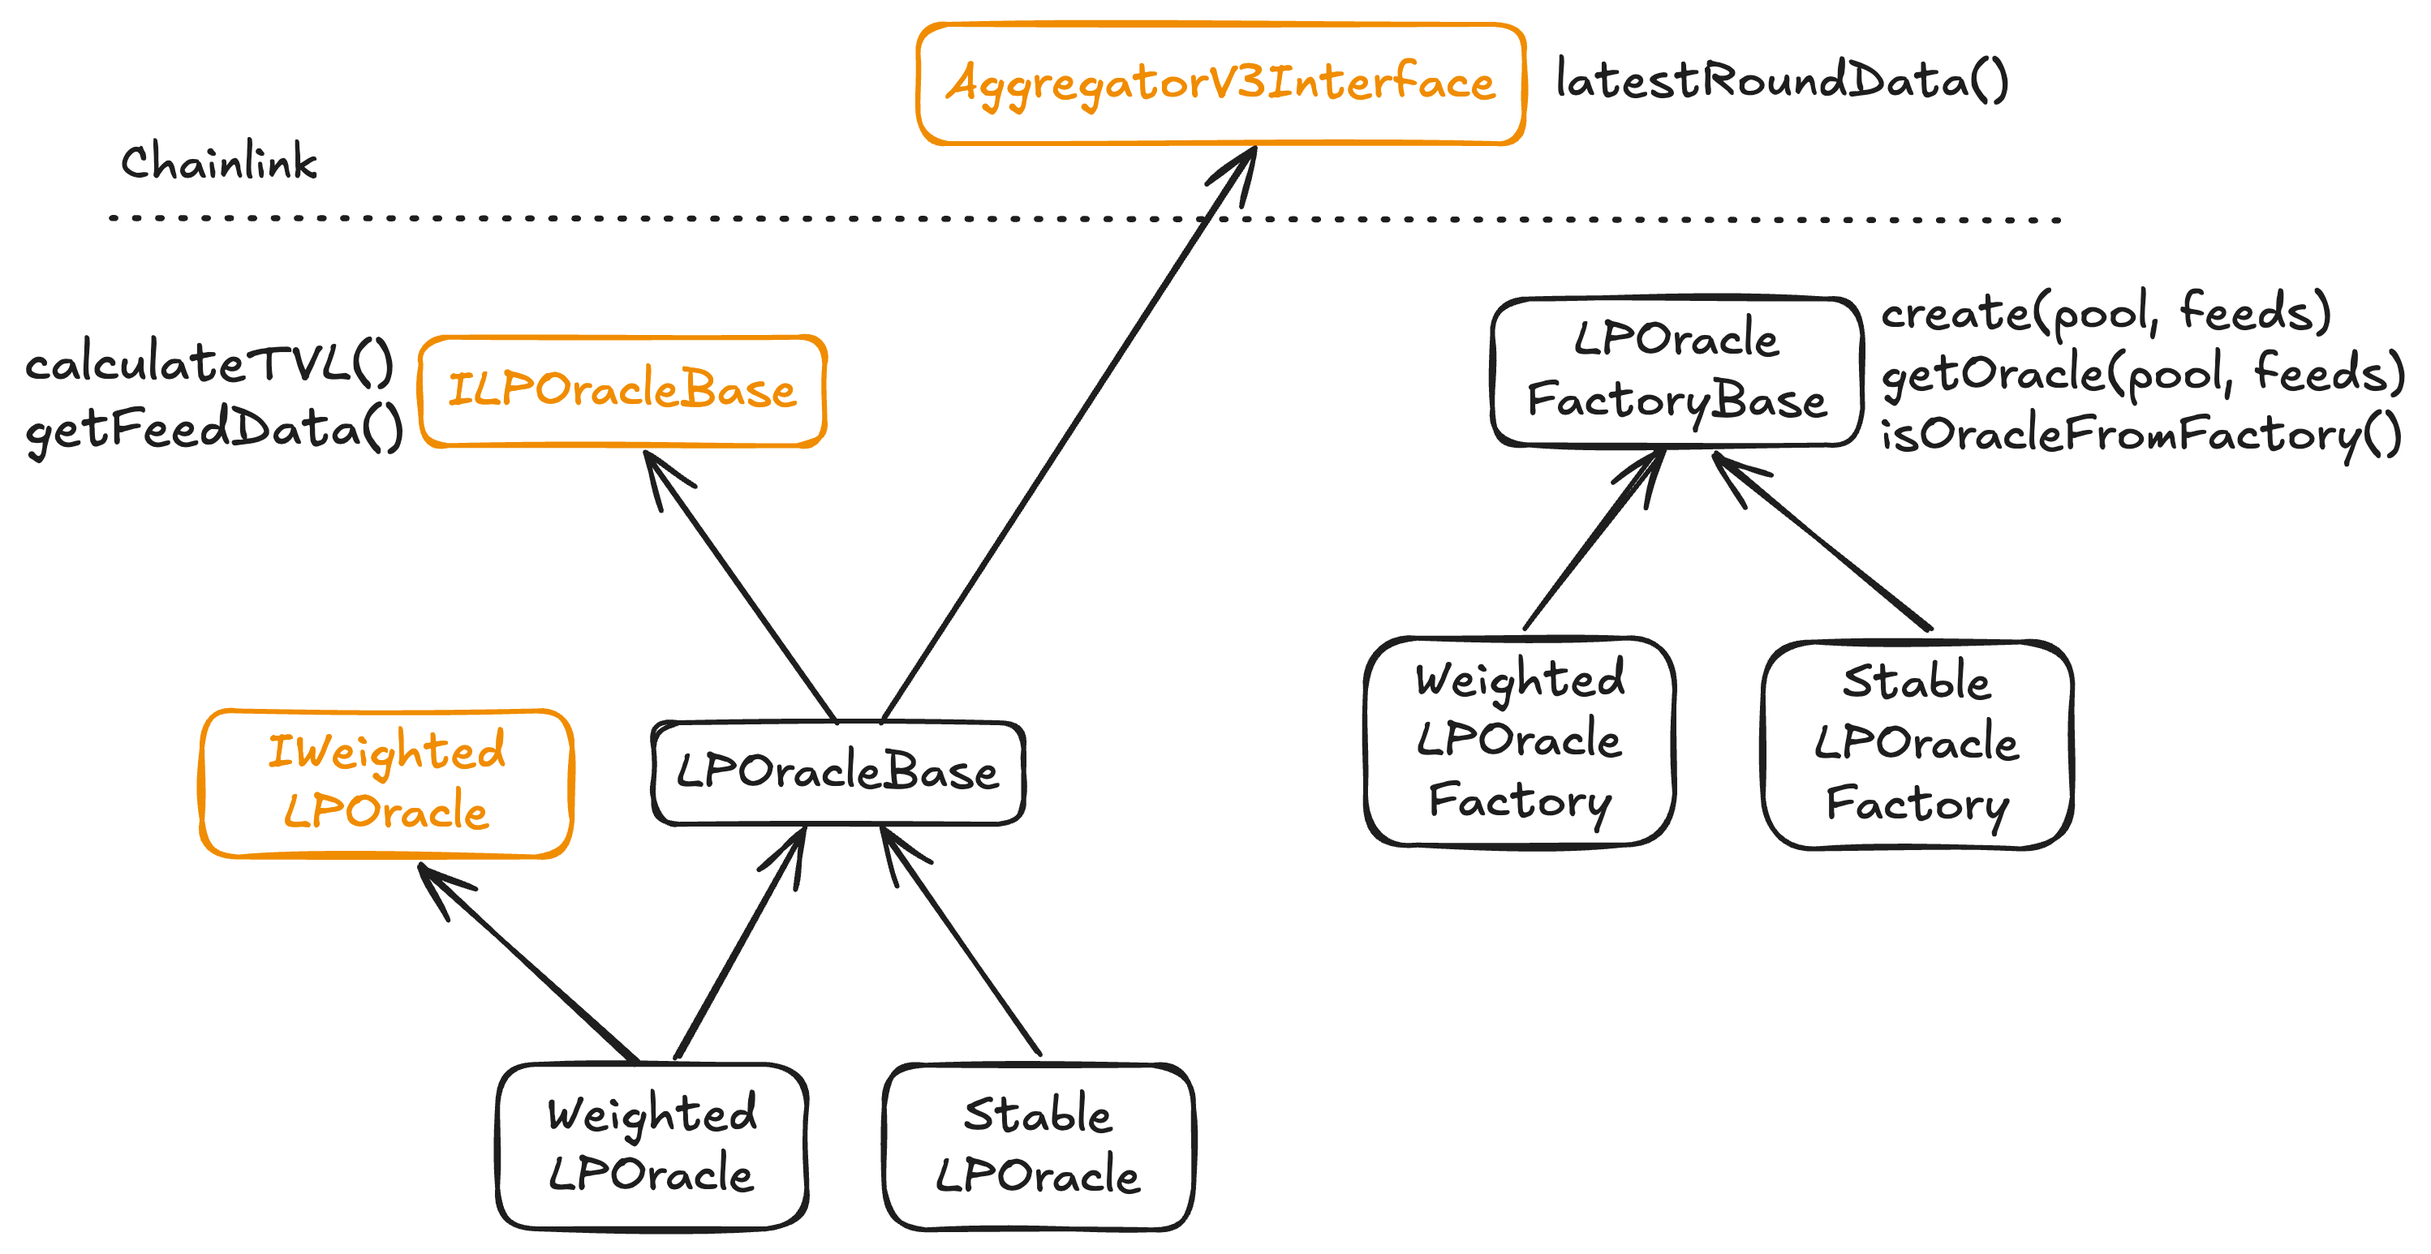
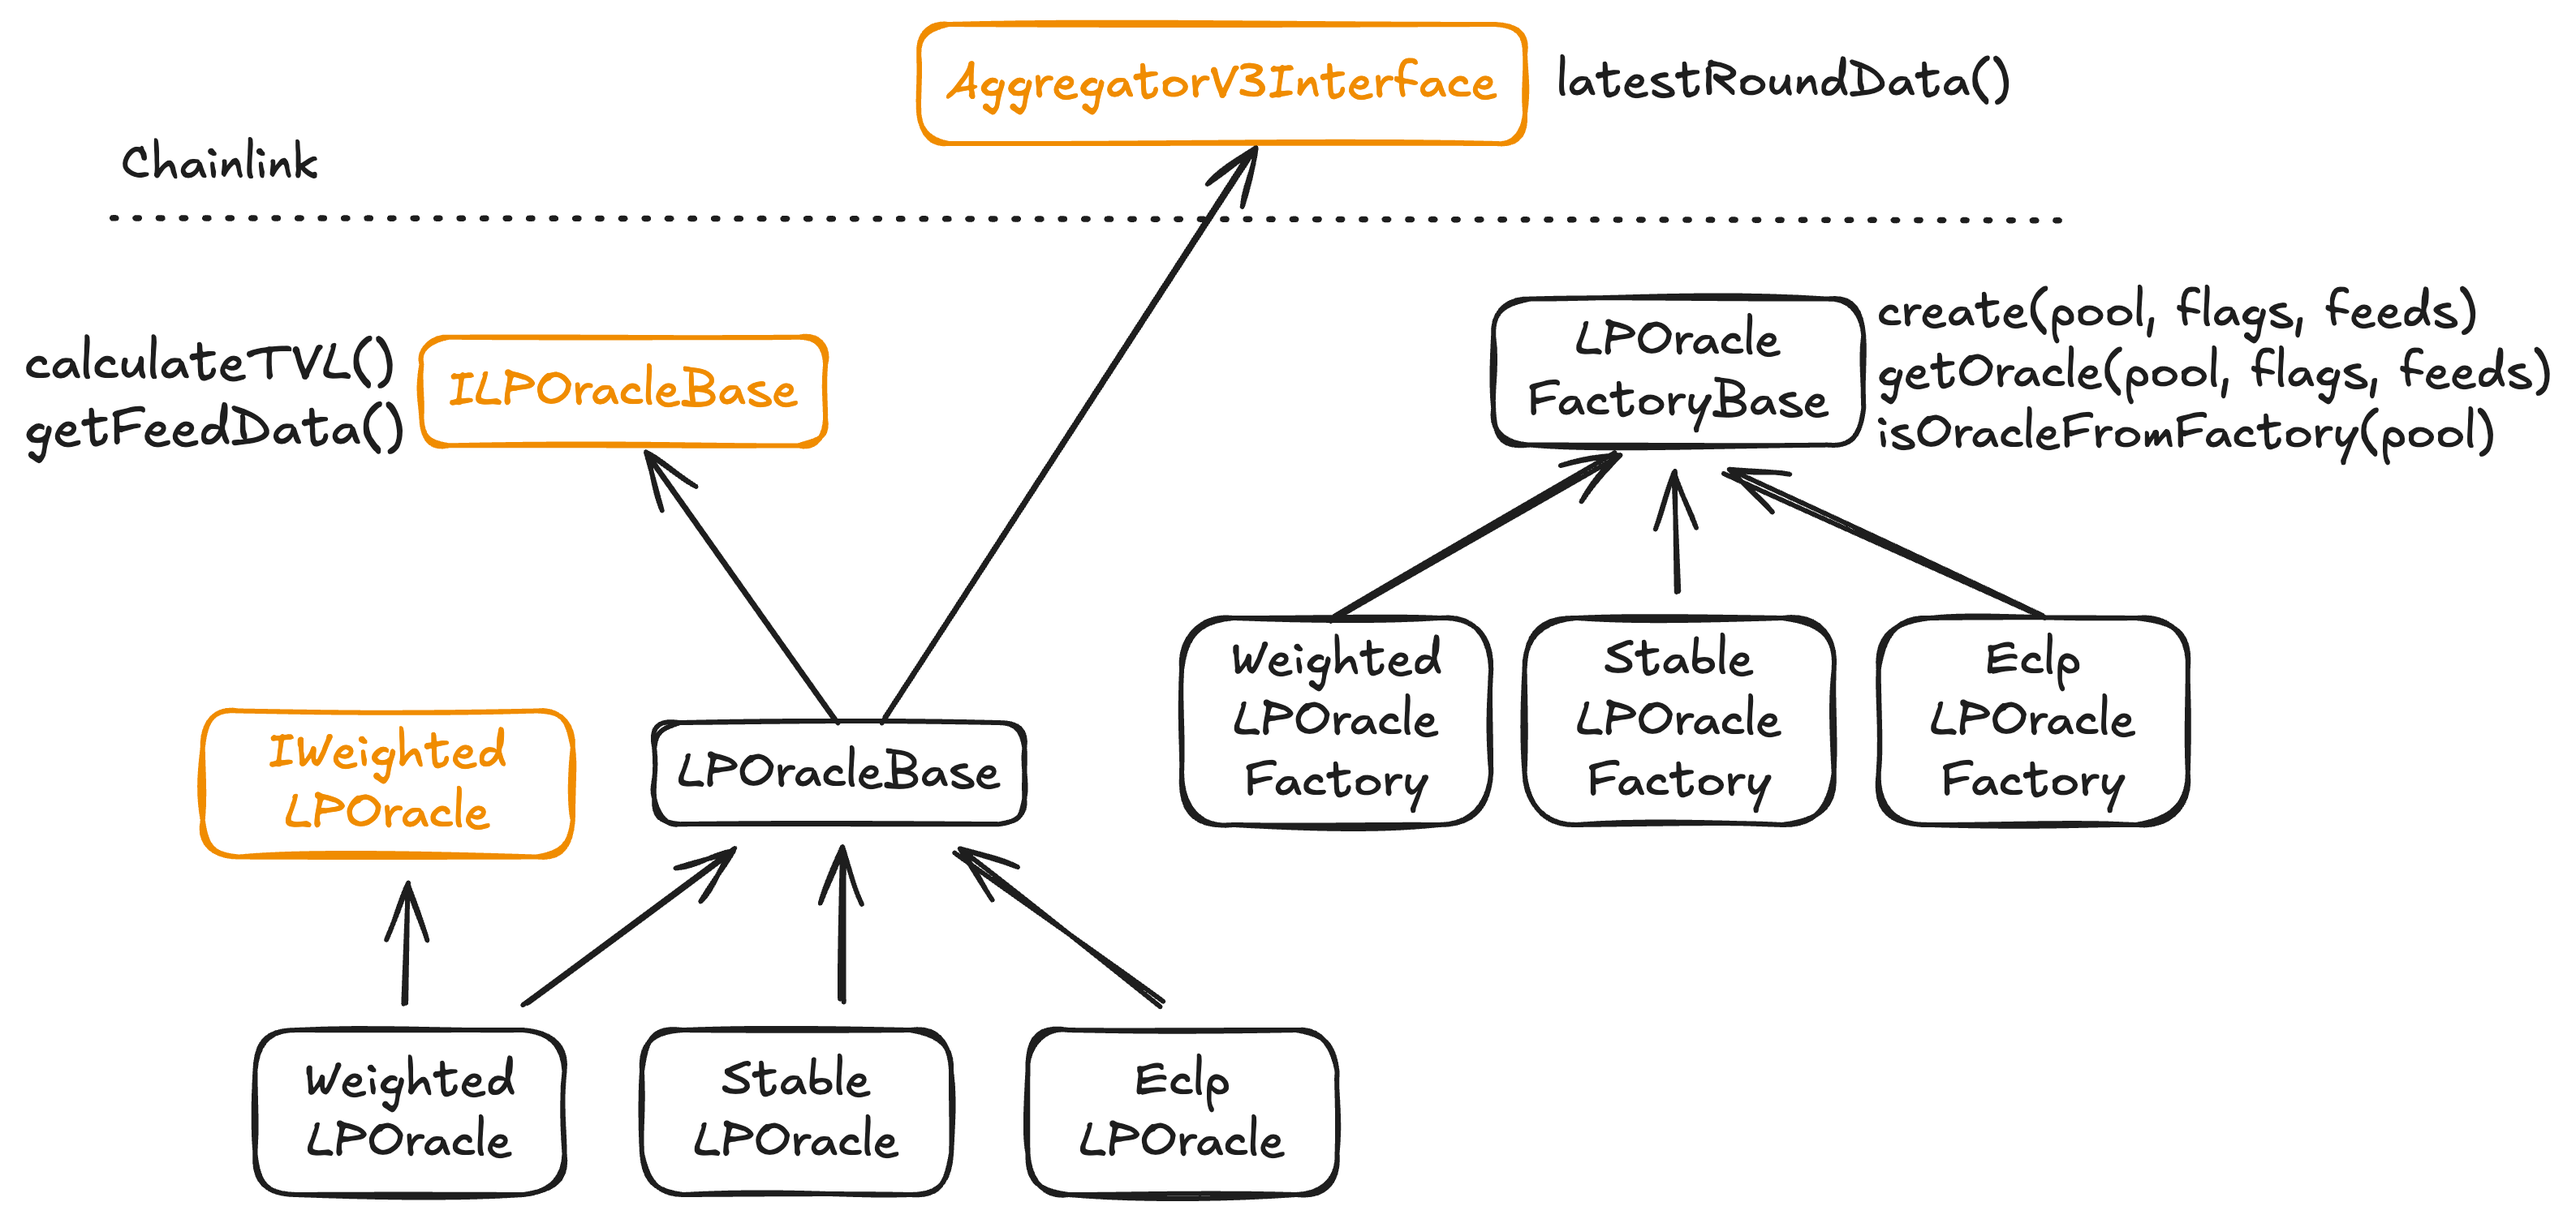
Update BPT oracle docs (#314)

diff --git a/docs/concepts/core-concepts/bpt-oracles/bpt-oracles.md b/docs/concepts/core-concepts/bpt-oracles/bpt-oracles.md
@@ -14,7 +14,9 @@ Balancer's radical flexibility is a major benefit for builders - yet presents un
 
 Flash loans - either explicit using Balancer V2 or other platforms, or implicit in Balancer's batch operations - are especially dangerous, and could be used to temporarily distort pool balances and pricing, inflating the apparent BPT value. The risk is not theoretical! Naive oracle implementations have been exploited many times in recent years: [Alpha Homora](https://blog.alphaventuredao.io/alpha-homora-v2-post-mortem/) lost over $38 million when an attacker manipulated LP token pricing to over-collateralize a loan, while [Harvest Finance](https://medium.com/harvest-finance/harvest-flashloan-economic-attack-post-mortem-3cf900d65217) saw $24 million drained through a similar manipulation of stablecoin Curve pools. These examples highlight the critical need for manipulation-resistant oracles when integrating LP tokens into lending systems.
 
-One first-line defense against implicit flash loans is the [WrappedBalancerPoolToken](https://github.com/balancer/balancer-v3-monorepo/blob/main/pkg/vault/contracts/WrappedBalancerPoolToken.sol), and its associated factory. This factory deploys wrapped versions of arbitrary BPT, which are freely interchangeable with "raw" BPT - but only when the Vault is locked (i.e., when there is no ongoing operation). This ensures that the BPT balance of the caller is "real," and not flash loaned: at least not from Balancer V3. (It could still be an externally flash loaned from another source.) It's one layer of "Swiss cheese" security, but not necessarily sufficient by itself.
+One defense against implicit flash loans is the [WrappedBalancerPoolToken](https://github.com/balancer/balancer-v3-monorepo/blob/main/pkg/vault/contracts/WrappedBalancerPoolToken.sol), and its associated factory. This factory deploys wrapped versions of arbitrary BPT, which are freely interchangeable with "raw" BPT - but only when the Vault is locked (i.e., when there is no ongoing operation). This ensures that the BPT balance of the caller is "real," and not flash loaned: at least not from Balancer V3. (It could still be an externally flash loaned from another source.) It's one layer of "Swiss cheese" security, but not necessarily sufficient by itself.
+
+Note that at least for the case of oracles used in lending protocols, this concern is adequately addressed using either deposit limits in the native protocols, or alternatively setting the `shouldRevertIfVaultUnlocked` flag on the oracle itself, which reverts if anything requiring TVL calculation happens during a transaction (i.e., when the Vault is unlocked).
 
 While "balance verification" is important for some operations (e.g., nested pools), what we really want is a reliable way to derive a reliable, non-manipulable price for a Balancer Pool Token: on-chain, and available during Vault operations. This enables many advanced use cases, including our target of BPT as collateral.
 
@@ -137,6 +139,62 @@ And then solve for C directly:
 C = k × Π((Pᵢ/Wᵢ)^Wᵢ) = TVL = Total pool value
 
 The price is then simply TVL / totalSupply.
+
+### E-CLP Pools (Elliptic Concentrated Liquidity Pools)
+
+E-CLP pools use a concentrated liquidity mechanism based on an elliptical curve constraint, allowing liquidity to be concentrated within a specified price range [α, β]. Unlike Weighted Pools which use simple power-law invariants or Stable Pools which use polynomial invariants, E-CLPs leverage geometric transformations to map between price space and balance space.
+
+The pool's invariant constraint defines an ellipse in the (x, y) balance space, rotated and stretched according to the pool parameters. The key parameters are:
+
+* **α (alpha)**: The lower bound of the concentrated price range
+* **β (beta)**: The upper bound of the concentrated price range  
+* **τ(α) and τ(β)**: Derived points on the ellipse corresponding to the price bounds
+* **A**: A transformation matrix that maps the unit circle to the pool's ellipse
+
+Given oracle prices P₁ and P₂ for the two tokens, the relative price is r = P₁/P₂. The TVL calculation depends on where this relative price falls within the concentrated range:
+
+**Case 1: r < α (Below the lower price bound)**
+
+When the market price is below the pool's concentrated range, the pool holds only token 1. The effective balance width in price space is:
+
+b_P = (A⁻¹·τ(β))_x - (A⁻¹·τ(α))_x
+
+And the total value locked is:
+
+TVL = b_P × P₁ × invariant
+
+**Case 2: r > β (Above the upper price bound)**
+
+When the market price is above the pool's concentrated range, the pool holds only token 2. The effective balance width is:
+
+b_P = (A⁻¹·τ(α))_y - (A⁻¹·τ(β))_y
+
+And the total value locked is:
+
+TVL = b_P × P₂ × invariant
+
+**Case 3: α ≤ r ≤ β (Within the concentrated range)**
+
+When the market price is within the pool's range, both tokens are present. We compute the point τ(r) on the ellipse corresponding to the current price ratio, then calculate the effective balance vector:
+
+v_x = (A⁻¹·τ(β))_x - (A⁻¹·τ(r))_x
+v_y = (A⁻¹·τ(α))_y - (A⁻¹·τ(r))_y
+
+The total value is then the scalar product of the price vector and the balance vector:
+
+TVL = (P₁ × v_x + P₂ × v_y) × invariant
+
+In summary:
+
+* The τ function maps price ratios to points on the ellipse curve, establishing the "fair" position on the curve given market prices
+* The A⁻¹ transformation converts points from the ellipse to effective balance space
+* The three cases handle the geometric reality that outside the [α, β] range, the pool is single-sided
+* Unlike Weighted Pools where TVL can be computed directly, or Stable Pools where Newton's method solves for a scaling parameter, E-CLP uses geometric projections to determine the effective balances
+* The invariant serves as a scaling factor, similar to its role in other pool types
+
+The final BPT price is simply TVL / totalSupply.
+
+This approach is resistant to price manipulation within the pool because it relies entirely on external oracle prices to determine the theoretical position on the ellipse, then uses only the pool's invariant (total supply) to scale the result. The geometric constraints of the ellipse ensure consistency between internal and external pricing.
 
 ## References
 

diff --git a/docs/concepts/core-concepts/bpt-oracles/bpt-oracles-contracts.md b/docs/concepts/core-concepts/bpt-oracles/bpt-oracles-contracts.md
@@ -4,15 +4,19 @@ title: BPT Oracle contracts
 ---
 # Overview
 
-We have implemented oracles for both Weighted and Stable Balancer pools. These are in the `oracles` package: `WeightedLPOracle` and `StableLPOracle`, and associated factories.
+We have implemented oracles for both Weighted and Stable Balancer pools, as well as Gyro E-CLPs. These are in the `oracles` package: `WeightedLPOracle`, `StableLPOracle`, `EclpLPOracle`, and associated factories.
 
-![Inheritance Diagram](/images/BPTOracles.png)
+![Inheritance Diagram (for Weighted and Stable)](/images/BPTOracles.png)
 
 ## Oracle Factories
 
 Oracles are created from the corresponding pool factories using the create function:
 
-`function create(IBasePool pool, AggregatorV3Interface[] memory feeds) external returns (ILPOracleBase oracle);`
+`function create(IBasePool pool, bool shouldUseBlockTimeForOldestFeedUpdate, bool shouldRevertIfVaultUnlocked, AggregatorV3Interface[] memory feeds) external returns (ILPOracleBase oracle);`
+
+If `shouldUseBlockTimeForOldestFeedUpdate` is set, `latestRoundData` returns the current time for `updatedAt`, instead of calculating the minimum update time over all the feeds (i.e., using the update time of the "oldest" / most stale feed).
+
+If `shouldRevertIfVaultUnlocked` is set, operations requiring calculation of the TVL will revert if the Vault is unlocked (i.e., in the middle of an operation). This guarantees that the BPT balance is "real," and not transient, which would make the result manipulable in cases where no other protective mechanisms are available (such as using wrapped BPT, or imposing limits in the lending protocol).
 
 `AggregatorV3Interface` is a Chainlink price feed. Note that this assumes the feed array is parallel to the pool tokens; i.e., the feed at each position is the correct one for the corresponding pool token. There is no way for the code to check this, so responsibility falls on the caller to ensure that this is the case. See the [Usage with Rate Providers](./bpt-oracles.md#usage-with-rate-providers) section for further considerations. Note that there are no restrictions in the factories that limit oracle creation, **so any mistakes can be remedied by simply calling create again with correct values**.
 
@@ -20,9 +24,13 @@ This first computes an "OracleID" as the hash of the pool and price feed address
 
 The base factory contract [interface](https://github.com/balancer/balancer-v3-monorepo/blob/main/pkg/interfaces/contracts/oracles/ILPOracleFactoryBase.sol) defines functions to find an oracle given pool and feed addresses, and check whether a given oracle was deployed by the official factory:
 
+Note that all basic parameters must be specified. Distinct oracles can be deployed with all combinations of flag settings.
+
 ```
 function getOracle(
     IBasePool pool,
+    bool shouldUseBlockTimeForOldestFeedUpdate,
+    bool shouldRevertIfVaultUnlocked,
     AggregatorV3Interface[] memory feeds
 ) external view returns (ILPOracleBase oracle);
 
@@ -33,8 +41,9 @@ function isOracleFromFactory(ILPOracleBase oracle) external view returns (bool s
 
 The common factory contract [interface](https://github.com/balancer/balancer-v3-monorepo/blob/main/pkg/interfaces/contracts/oracles/ILPOracleBase.sol) defines:
 
-`function calculateTVL(int256[] memory prices) external view returns (uint256 tvl);`
+`function calculateTVL() external view returns (uint256 tvl);`
+`function calculateTVLGivenPrices(int256[] memory prices) external view returns (uint256 tvl);`
 
-This function computes the total value of the pool, solving the pool and price constraints simultaneously as described in the [main article](./bpt-oracles.md#derivation).
+This function computes the total value of the pool, solving the pool and price constraints simultaneously as described in the [main article](./bpt-oracles.md#derivation). THe function without price arguments uses current prices.
 
 Just as the price feeds implement the Chainlink interface `AggregatorV3Interface` to fetch individual token prices, the common factory [contract](https://github.com/balancer/balancer-v3-monorepo/blob/main/pkg/oracles/contracts/LPOracleBase.sol) also implements this interface, and calling `latestRoundData` invokes the virtual `calculateTVL` function to get the total value, then divides by the total supply to get the BPT price.

diff --git a/docs/concepts/core-concepts/balancer-pool-tokens.md b/docs/concepts/core-concepts/balancer-pool-tokens.md
@@ -41,6 +41,12 @@ As BPTs adhere to the ERC20 standard, they can seamlessly integrate as pool toke
 
 If Chainlink price feeds are available for all tokens, Weighted and Stable Pool BPTs can be priced in USD terms using the corresponding LP Oracle contracts: [WeightedLPOracle](https://github.com/balancer/balancer-v3-monorepo/blob/main/pkg/oracles/contracts/WeightedLPOracle.sol) and [StableLPOracle](https://github.com/balancer/balancer-v3-monorepo/blob/main/pkg/oracles/contracts/StableLPOracle.sol), which implement [this interface](https://github.com/balancer/balancer-v3-monorepo/blob/main/pkg/interfaces/contracts/oracles/ILPOracleBase.sol) as well as the `AggregatorV3Interface` Chainlink price feed interface. This allows users to call `latestRoundData` on the oracle contract to get an accurate, non-manipulable BPT price, just as if it were a Chainlink oracle itself.
 
+There is also an oracle for Gyro E-CLP pools: [EclpLPOracle](https://github.com/balancer/balancer-v3-monorepo/blob/main/pkg/oracles/contracts/EclpLPOracle.sol).
+
 Note that it would be possible to generalize these contracts to support other kinds of price feeds; the only function of the price oracle is to fetch the current market prices. The pricing algorithm and all logic is contained in the LP oracle code (and mostly all in the base contracts).
 
-The most common use for these contracts is enabling Balancer BPT to be used as collateral on lending platforms. See the [BPT as Collateral](./bpt-oracles/bpt-oracles.md) docs for more details.
+The most common use for these contracts is enabling Balancer BPT to be used as collateral on lending platforms. See the [BPT as Collateral](./bpt-oracles/bpt-oracles.md) docs for more details. As described on that page, great care must be taken when using BPT in this way, outside Balancer. Since transient operations allow an "infinite BPT mint" during a transaction, without safeguards lending protocols could potentially be manipulated through huge BPT deposits during a batch transaction.
+
+Current protocols impose deposit limits, which mitigate this risk. If new protocol lack such caps natively, the most recent versions of oracles enable an immutable flag which, if set on deployment, makes all TVL-related calls revert when the Vault is unlocked. This ensures that the BPT are "real," and not transient. It would still be possible to flashloan BPT from another source, but the maximum amount would be limited to the actual liquidity available.
+
+There is also a wrapped form of BPT [WrappedBalancerPoolToken](https://github.com/balancer/balancer-v3-monorepo/blob/main/pkg/vault/contracts/WrappedBalancerPoolToken.sol), which can only be minted while the Vault is locked, similarly preventing the use of transient BPT. The oracle use case is well covered by the combination of safeguards in the lending protocol and the oracle contract flag; WrappedBPT would not be needed there, but is available in case other use cases arise.
